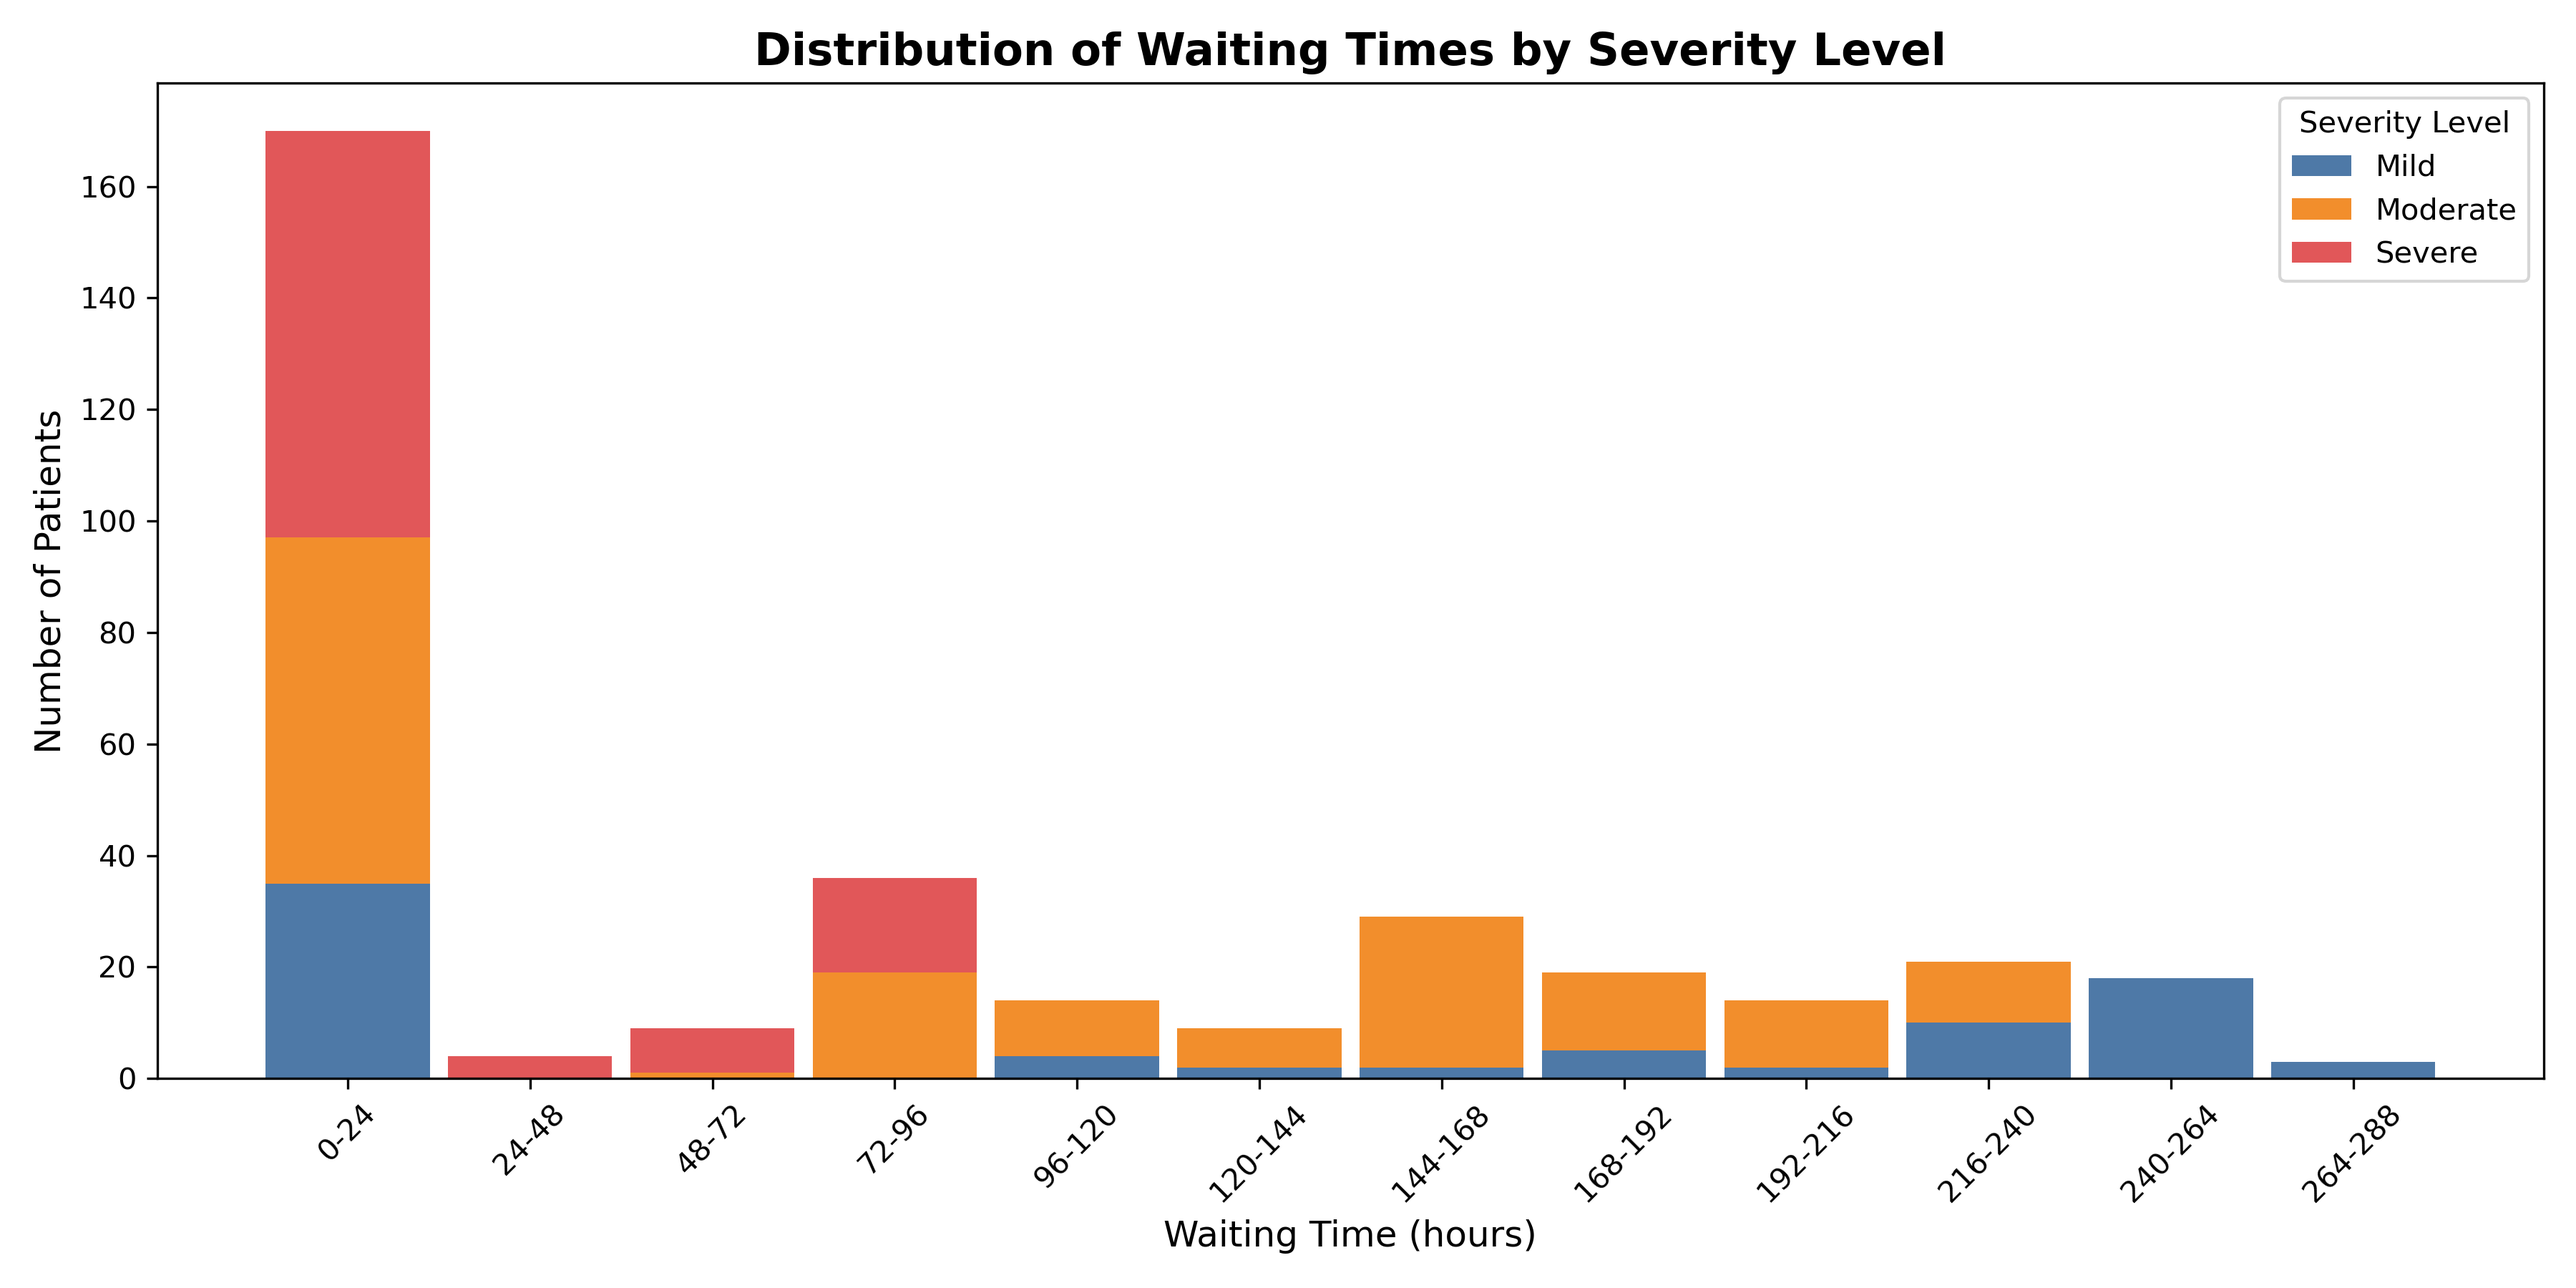
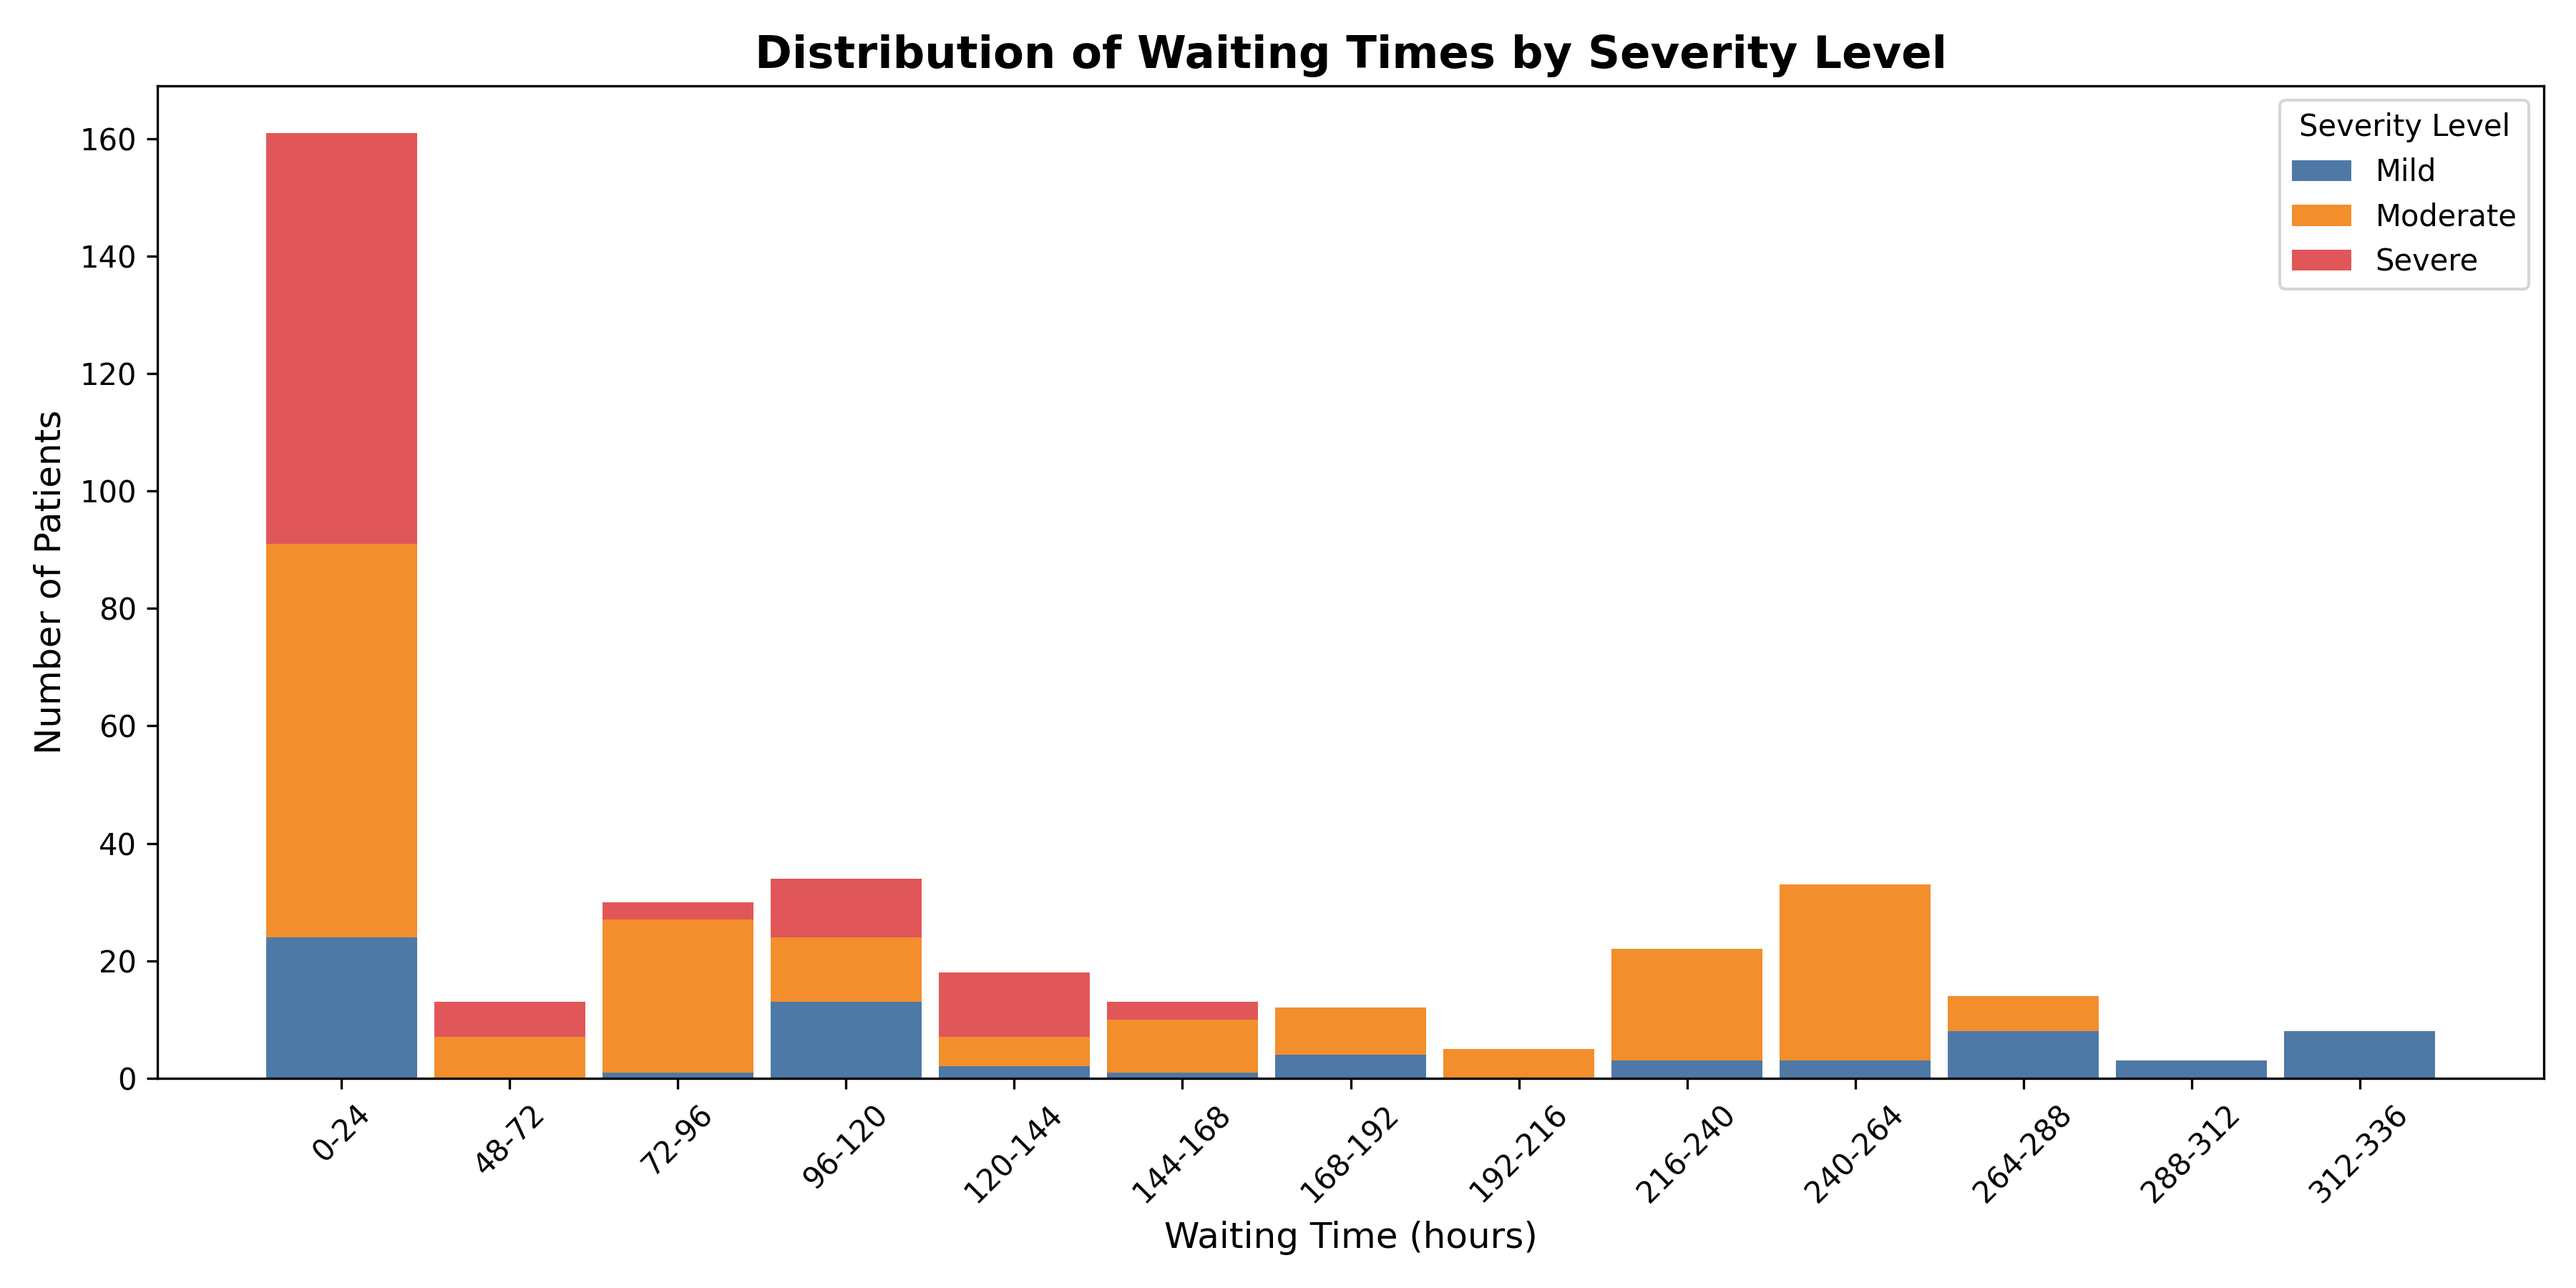
replot

diff --git a/Part_1_IcuQueue/IcuQueueMain.py b/Part_1_IcuQueue/IcuQueueMain.py
@@ -1,4 +1,4 @@
-from DepartureProcessWithDPQ import simultaneously_return
+from DepartureProcessWithPQandReservedBeds import simultaneously_return
 import numpy as np
 import matplotlib.pyplot as plt
 import pandas as pd
@@ -9,23 +9,22 @@ arrival_times, severity_level_list, start_times, departure_times, waiting_times 
 
 # Penalty Function using Logistic Regression
 alpha_1 = 0.01  # Logistic sensitivity for severity and waiting time
-beta_1 = 3    # Logistic bias
 m_1 = 1
 
-def penaltyFunction_logistic(m_1=m_1, alpha_1=alpha_1, beta_1=beta_1, severity_level_list=severity_level_list, waiting_times=waiting_times):
+def penaltyFunction(m_1=m_1, alpha_1=alpha_1, severity_level_list=severity_level_list, waiting_times=waiting_times):
     total_penalty = 0
     for i in range(len(waiting_times)):
         severity = severity_level_list[i]
         waiting_time = waiting_times[i]
         # Calculate mortality probability using logistic regression
-        mortality_probability = 1 / (1 + np.exp(-(alpha_1 * severity * waiting_time - beta_1)))
+        mortality_probability = np.e ** (alpha_1 * severity * waiting_time) - 1
         # Total penalty as the sum of mortality probabilities
         total_penalty += m_1 * mortality_probability
     return total_penalty
 
 
 # Calculate average penalty
-total_penalty = penaltyFunction_logistic()
+total_penalty = penaltyFunction()
 num_patients = len(waiting_times)
 average_penalty = total_penalty / num_patients
 
@@ -70,8 +69,7 @@ def plot_discrete_severity_distribution(waiting_times, severity_levels, bin_size
     if save_path:
         plt.savefig(save_path, dpi=300)
         print(f"Plot saved to {save_path}")
-    else:
-        plt.show()
+    plt.show()
 
 # Create output directories
 output_dir = "Part_1_IcuQueue"
@@ -83,7 +81,7 @@ results_dir = os.path.join(output_dir, "results")
 os.makedirs(results_dir, exist_ok=True)
 
 # Define the simulation results file path
-results_file_name = "reserved.csv"
+results_file_name = "PQ+reserved.csv"
 csv_path = os.path.join(results_dir, results_file_name)
 
 # Save simulation results to the new file
@@ -98,25 +96,23 @@ results_df.to_csv(csv_path, index=False)
 print(f"Simulation results saved to {csv_path}")
 
 # Save the plot to the figures folder
-plot_path = os.path.join(figures_dir, "reserved.png")
+plot_path = os.path.join(figures_dir, "PQ+reserved.png") 
 plot_discrete_severity_distribution(waiting_times, severity_level_list, save_path=plot_path)
 
 # Create a penalties subdirectory
 penalties_dir = os.path.join(output_dir, "penalties")
 os.makedirs(penalties_dir, exist_ok=True)
 
-# Save the logistic penalty function result and average penalty to a file
-penalty_result_logistic = penaltyFunction_logistic()
+penalty_result_logistic = penaltyFunction()
 average_penalty = penalty_result_logistic / num_patients
 
-penalty_file_name = "reserved.txt"
+penalty_file_name = "PQ+reserved.txt" 
 penalty_path = os.path.join(penalties_dir, penalty_file_name)
 
 with open(penalty_path, "w") as f:
-    f.write(f"Total Penalty (Logistic): {penalty_result_logistic}\n")
-    f.write(f"Average Penalty per Patient: {average_penalty}\n")
+    f.write(f"Penalty 1: {penalty_result_logistic}\n")
 
-print(f"Penalty result (Logistic) saved to {penalty_path}")
+print(f"Penalty result saved to {penalty_path}")
 
 
 

diff --git a/Part_2_CareGiver/CareRequest.py b/Part_2_CareGiver/CareRequest.py
@@ -1,9 +1,9 @@
 import sys
 
-project_root = '/Users/李奕瑶/IND-ENG-174'
+project_root = '/Users/sizheli/Desktop/INDENG_174/IND-ENG-174'
 sys.path.append(project_root)
 
-from Part_1_IcuQueue.DepartureProcess import simultaneously_return
+from Part_1_IcuQueue.DepartureProcessWithFIFO import simultaneously_return
 
 import heapq
 import numpy as np
@@ -20,6 +20,9 @@ time_horizon = 10 # If you want to modify this parameter, please simultaneously 
 
 service_type = [1, 2, 3] # 1 - small-scale ; 2 - medium-scale ; 3 - large-scale
 mean_service_time = [0.2, 0.5, 1] # in hours
+
+b_1 = 0.2 # The cutoff point between the early and middle stages
+b_2 = 0.9 # The cutoff point between the middle and late stages
 
 service_probabilities = {
     1: {  
@@ -41,7 +44,7 @@ service_probabilities = {
 
 def simulate_service_process(request_frequency=request_frequency, capacity=capacity, number_of_care_givers=number_of_care_givers,
                              time_horizon=time_horizon, start_times=start_times, departure_times=departure_times, severity_level_list=severity_level_list,
-                             service_type=service_type, mean_service_time=mean_service_time):
+                             service_type=service_type, mean_service_time=mean_service_time, b_1 = b_1, b_2 = b_2):
   
 
     patient_states = [0] * len(arrival_times)
@@ -99,9 +102,9 @@ def simulate_service_process(request_frequency=request_frequency, capacity=capac
             fraction_elapsed = elapsed_time / total_stay_duration
 
  
-            if fraction_elapsed <= 0.2:
+            if fraction_elapsed <= b_1:
                 phase = 'first'
-            elif fraction_elapsed <= 0.9:
+            elif fraction_elapsed <= b_2:
                 phase = 'middle'
             else:
                 phase = 'last'
@@ -136,4 +139,4 @@ def simulate_service_process(request_frequency=request_frequency, capacity=capac
     service_waiting_times = [x * 60 for x in service_waiting_times]
     return service_waiting_times, severity_cor_waiting_times
 
-print(simulate_service_process())
+#print(simulate_service_process())

diff --git a/Part_1_IcuQueue/DepartureProcessWithFIFO.py b/Part_1_IcuQueue/DepartureProcessWithFIFO.py
@@ -1,6 +1,6 @@
 import sys
 
-project_root = '/Users/kennychan/Downloads/IND-ENG-174'
+project_root = '/Users/sizheli/Desktop/INDENG_174/IND-ENG-174'
 sys.path.append(project_root)
 
 from Part_1_IcuQueue.ArrivalProcess import simulate_arrival_process
